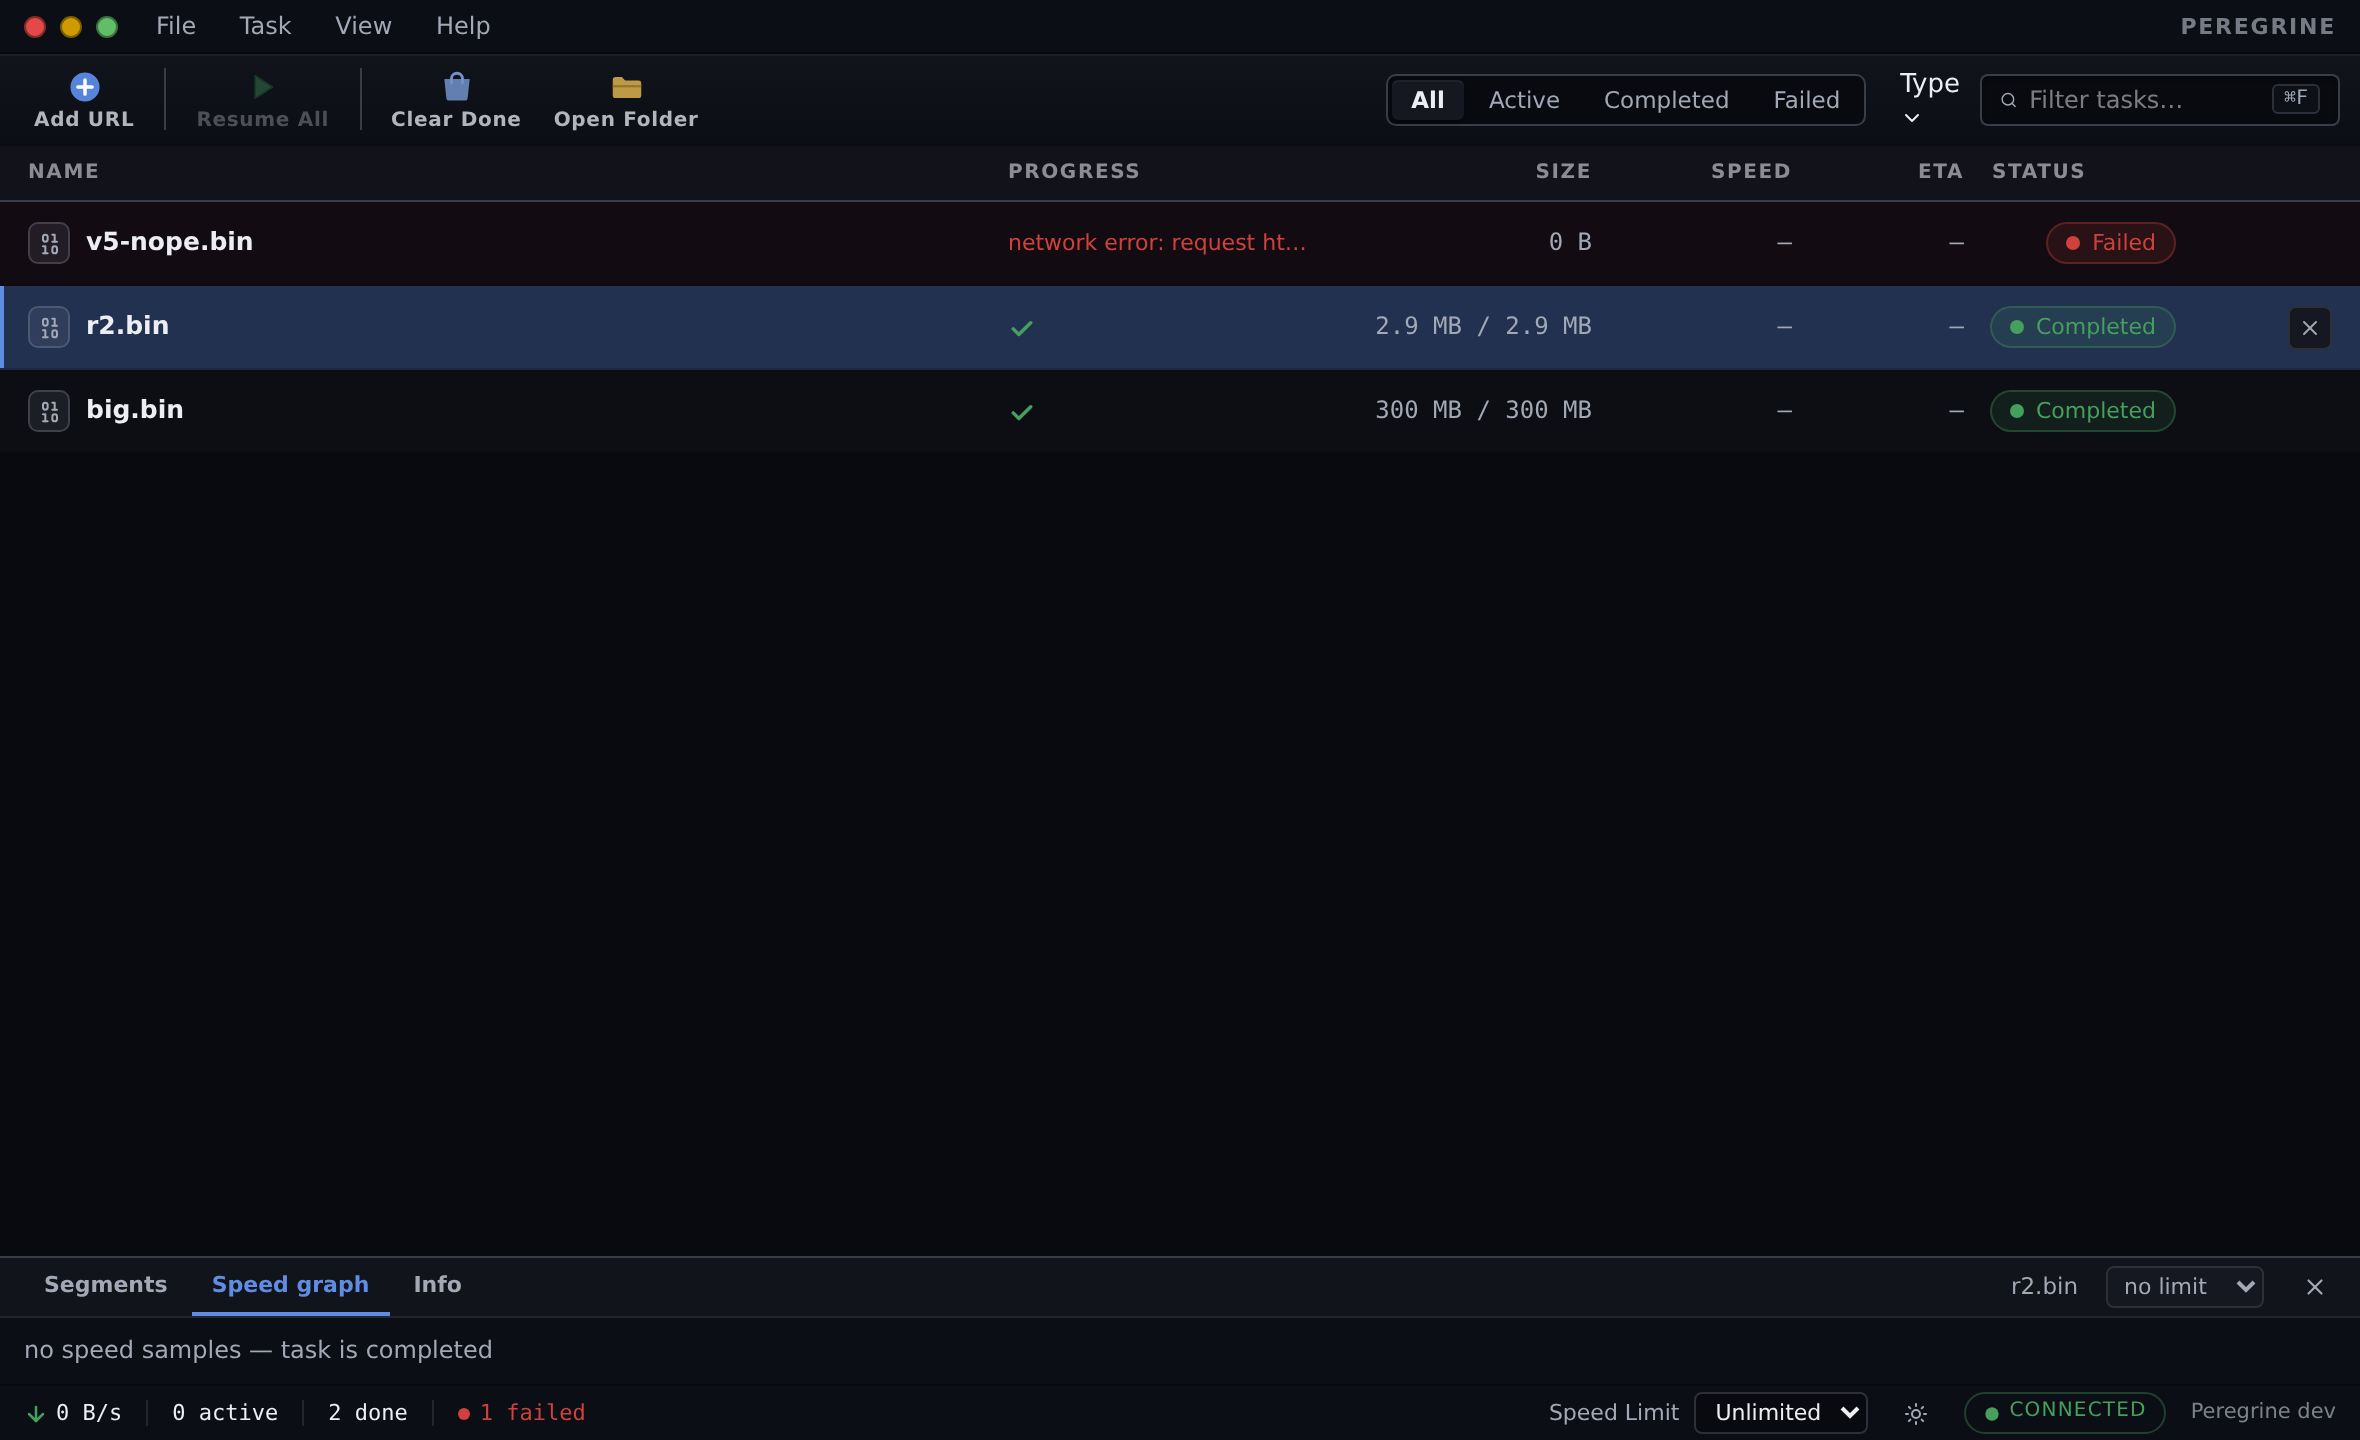
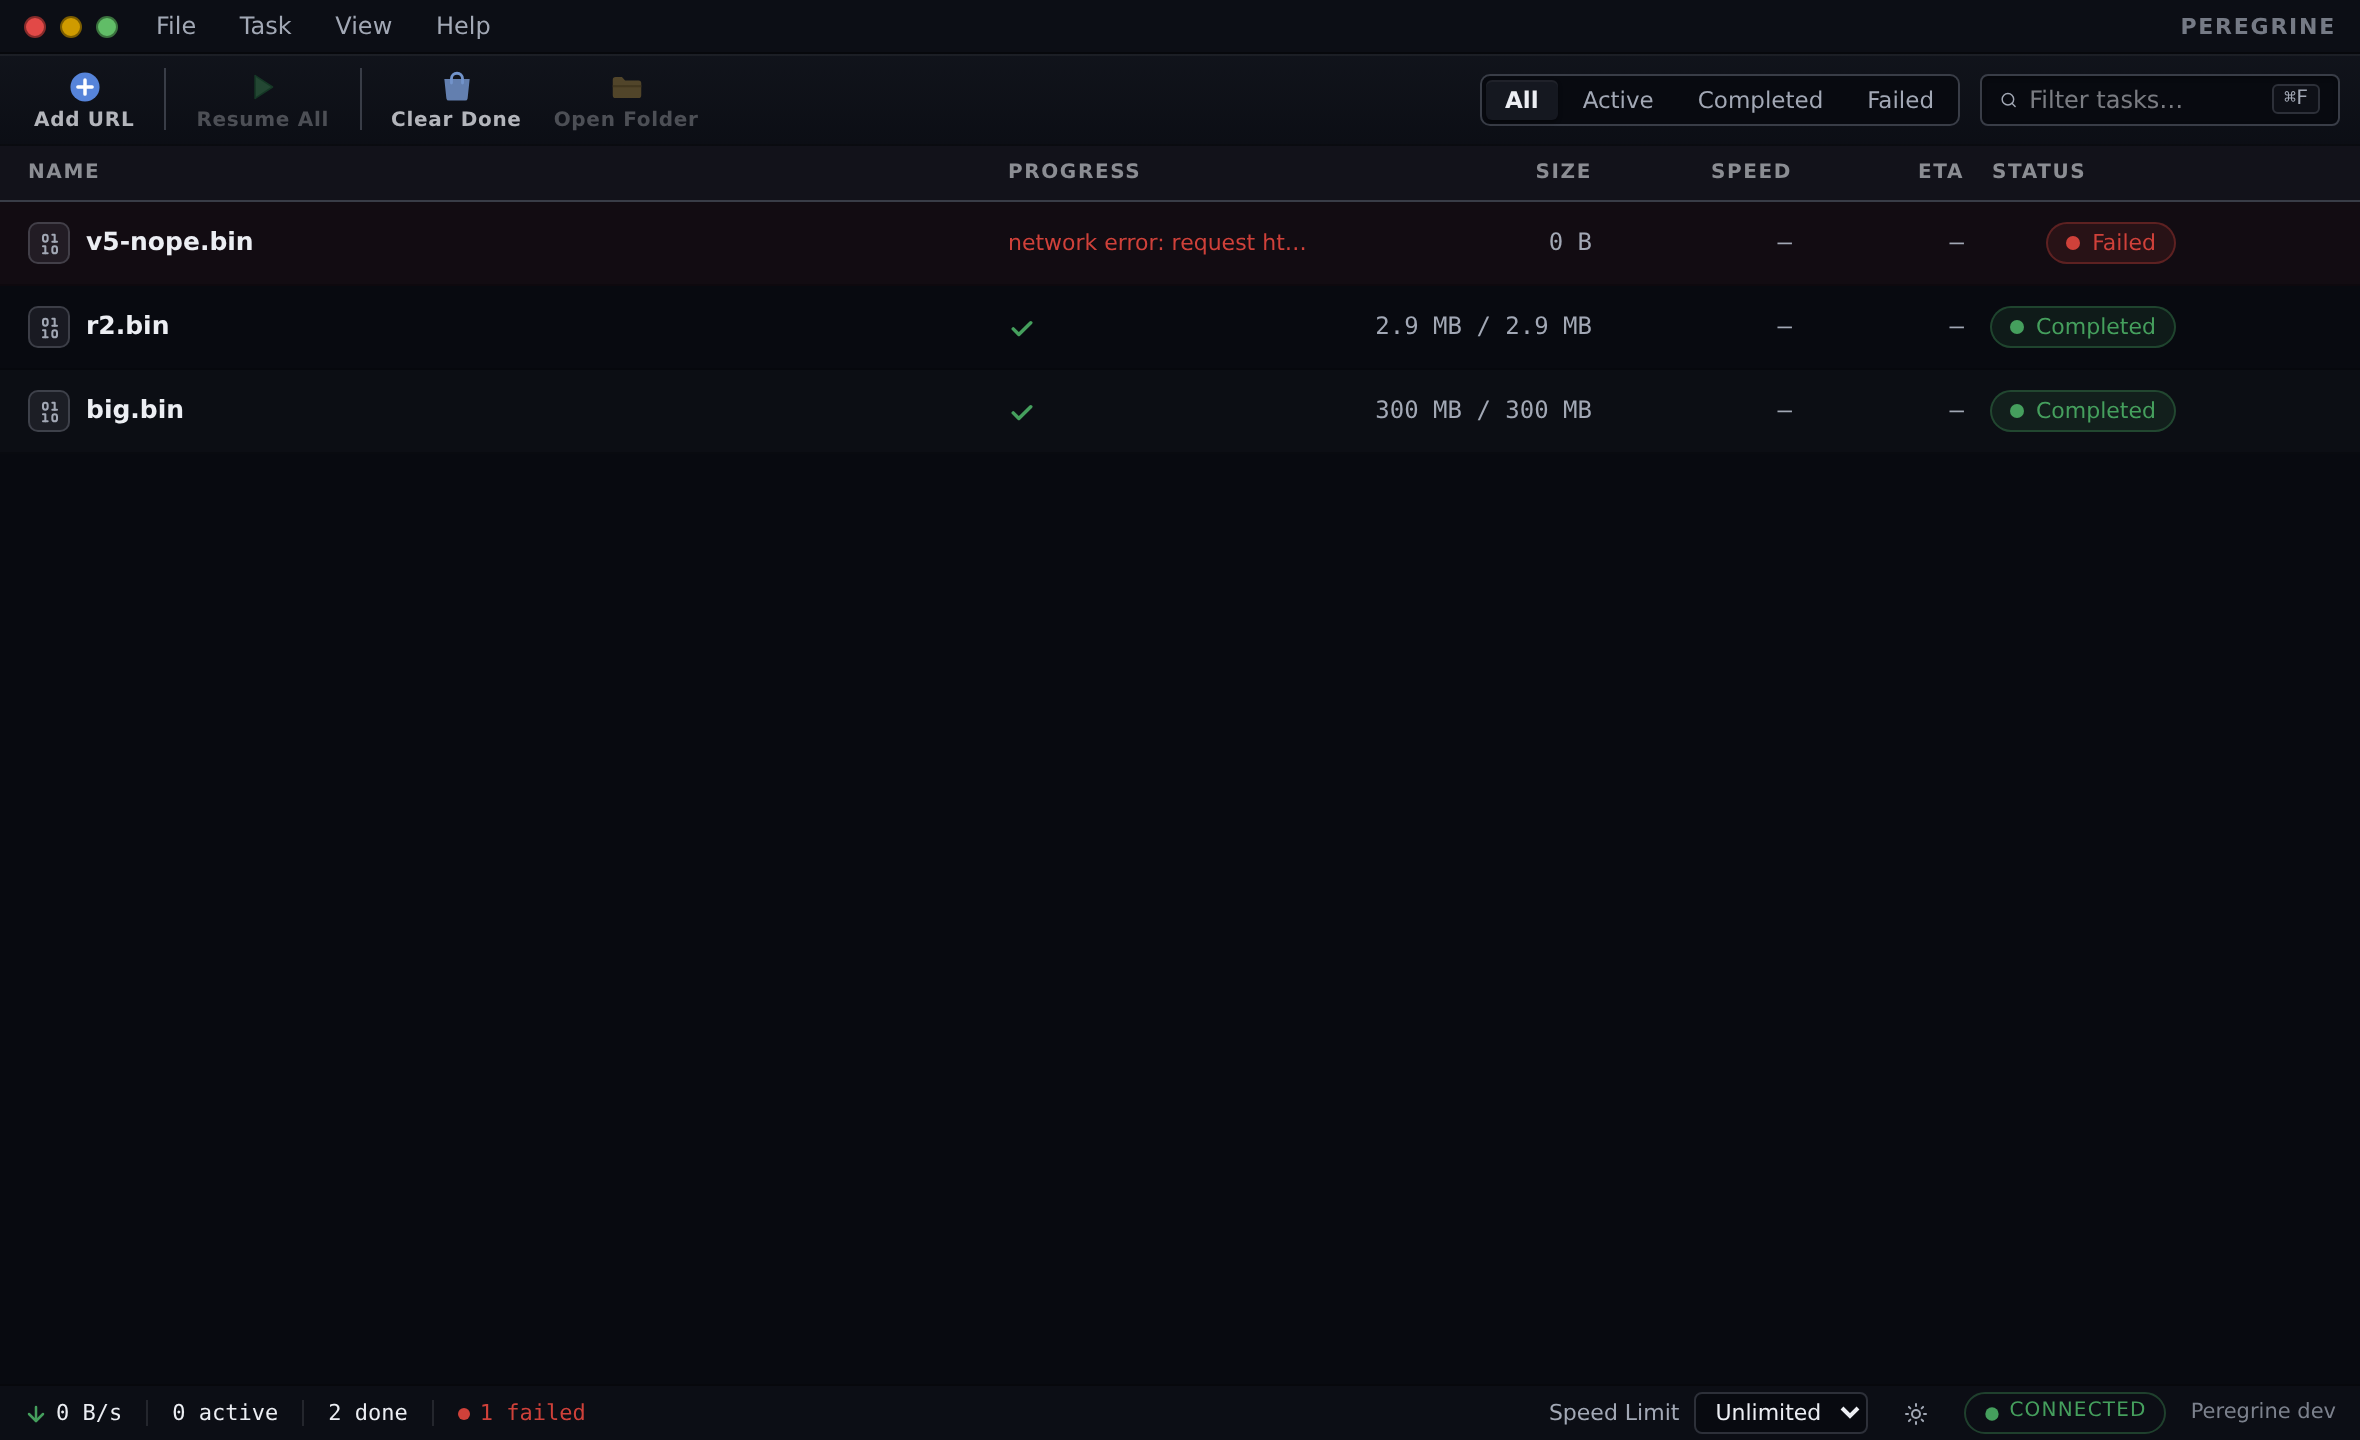
fix: remove the orphaned Type button from the toolbar (UX)
Three iterations on the Type dropdown placement (boxed beside the
chips -> ghost -> merged into the chips group) all read wrong: it
either fought the segmented control as a sibling box or floated as
an orphaned label. The real fix is subtraction — status and category
are different axes with different frequencies:

- toolbar keeps ONLY the high-frequency axis: status chips + search
- category filtering moves to View > 'All Types / Video / Audio /
  Documents / Archives / Programs / Other' (checkmark radio group),
  its first-class home in desktop-menu semantics
- Titlebar passes categoryFilter through; Menubar gains the section
- probed: View menu lists 7 type items, Archives filters to 0 rows
  (no archives in scene), toolbar has 0 leftover filter buttons

VLM verdict on the final toolbar: 9/10 (prev 8 with the boxed
sibling, 4 ghost, 4 merged).

diff --git a/apps/desktop/src/lib/Toolbar.svelte b/apps/desktop/src/lib/Toolbar.svelte
@@ -4,10 +4,8 @@
    * small caps labels (IDM-style), filter dropdown (absorbs the old
    * sidebar's status/category filters), live task search.
    */
-  import { DropdownMenu } from 'bits-ui';
-  import { Search, ChevronDown } from '@lucide/svelte';
-  import { CATEGORIES, type Category } from './categorize';
-  import type { StatusFilter } from './types';
+    import { Search } from '@lucide/svelte';
+    import type { StatusFilter } from './types';
 
   let {
     query = $bindable(''),
@@ -45,9 +43,6 @@
     searchEl?.focus();
   }
 
-  const catLabel = $derived(
-    categoryFilter ? (CATEGORIES.find((c) => c.id === categoryFilter)?.label ?? 'Type') : 'Type',
-  );
 </script>
 
 <div class="toolbar">
@@ -99,29 +94,6 @@
       </button>
     {/each}
   </div>
-
-  <div class="tdiv segdiv"></div>
-
-  <DropdownMenu.Root>
-    <DropdownMenu.Trigger class="filter-btn" title="Filter by file type">
-      {catLabel}
-      <ChevronDown size={12} />
-    </DropdownMenu.Trigger>
-    <DropdownMenu.Content class="fmenu" align="end" sideOffset={6}>
-      {#each CATEGORIES as c (c.id)}
-        <DropdownMenu.Item
-          class="fitem"
-          onclick={() => {
-            categoryFilter = categoryFilter === c.id ? null : c.id;
-            statusFilter = 'all';
-          }}
-        >
-          {c.label}
-          {#if categoryFilter === c.id}<span class="on">✓</span>{/if}
-        </DropdownMenu.Item>
-      {/each}
-    </DropdownMenu.Content>
-  </DropdownMenu.Root>
 
   <div class="search" role="search">
     <Search size={12} aria-hidden="true" />
@@ -199,10 +171,6 @@
    * mass sit ~2px high to the eye — nudge the pair down. */
   .tool { padding-top: 2px; }
 
-  .segdiv {
-    align-self: center;
-    margin-left: 6px;
-  }
   .seg {
     align-self: center;
     margin-left: 8px;
@@ -233,22 +201,6 @@
     box-shadow: 0 1px 2px var(--shade-1), inset 0 1px 0 var(--inset-hl);
     font-weight: 600;
   }
-  .filter-btn {
-    align-self: center;
-    margin-left: 8px;
-    display: inline-flex;
-    align-items: center;
-    gap: 6px;
-    height: 26px;
-    padding: 0 10px;
-    border: 1px solid var(--line-strong);
-    border-radius: 4px;
-    background: var(--bg);
-    color: var(--text);
-    font: 500 12px var(--font-sans);
-    cursor: pointer;
-  }
-  .filter-btn:hover { border-color: var(--accent); }
 
   .search {
     align-self: center;
@@ -281,34 +233,4 @@
     background: var(--panel);
   }
 
-  .fmenu {
-    min-width: 160px;
-    background: var(--elevated);
-    border: 1px solid var(--line-strong);
-    border-radius: 6px;
-    padding: 4px;
-    box-shadow: 0 12px 32px var(--shade-2), 0 2px 8px var(--shade-1);
-    z-index: 60;
-  }
-  .fitem {
-    display: flex;
-    align-items: center;
-    justify-content: space-between;
-    padding: 5px 10px;
-    border-radius: 4px;
-    font: 400 12px var(--font-sans);
-    color: var(--text);
-    cursor: pointer;
-    outline: none;
-  }
-  .fitem[data-highlighted] {
-    background: var(--accent);
-    color: var(--on-accent);
-  }
-  .fitem .on { font-weight: 700; }
-  .fsep {
-    height: 1px;
-    background: var(--line-strong);
-    margin: 4px 6px;
-  }
 </style>

diff --git a/apps/desktop/src/lib/Menubar.svelte b/apps/desktop/src/lib/Menubar.svelte
@@ -5,6 +5,7 @@
    * have a classic desktop path alongside the toolbar + shortcuts.
    */
   import { Menubar as MB } from 'bits-ui';
+import { CATEGORIES, type Category } from './categorize';
 
   let {
     onAdd,
@@ -15,6 +16,8 @@
     themeLabel,
     onPalette,
     onShortcuts,
+    categoryFilter = null,
+    onCategoryFilter = () => {},
   }: {
     onAdd: () => void;
     onPauseAll: () => void;
@@ -24,6 +27,8 @@
     themeLabel: string;
     onPalette: () => void;
     onShortcuts: () => void;
+    categoryFilter?: Category | null;
+    onCategoryFilter?: (c: Category | null) => void;
   } = $props();
 </script>
 
@@ -64,6 +69,25 @@
     <MB.Menu>
       <MB.Trigger class="mtrigger">View</MB.Trigger>
       <MB.Content class="mcontent" align="start" sideOffset={4}>
+        <MB.Item
+          class="mitem"
+          onclick={() => onCategoryFilter(null)}
+          data-on={categoryFilter === null}
+        >
+          All Types
+          {#if categoryFilter === null}<span class="mk">✓</span>{/if}
+        </MB.Item>
+        {#each CATEGORIES as c (c.id)}
+          <MB.Item
+            class="mitem"
+            onclick={() => onCategoryFilter(categoryFilter === c.id ? null : c.id)}
+            data-on={categoryFilter === c.id}
+          >
+            {c.label}
+            {#if categoryFilter === c.id}<span class="mk">✓</span>{/if}
+          </MB.Item>
+        {/each}
+        <MB.Separator class="msep" />
         <MB.Item class="mitem" onclick={onToggleTheme}>
           {themeLabel}
           <span class="mk">⌘T</span>

diff --git a/apps/desktop/src/lib/Titlebar.svelte b/apps/desktop/src/lib/Titlebar.svelte
@@ -8,6 +8,7 @@
 
   let {
     title,
+    categoryFilter = null,
     onAdd,
     onPauseAll,
     onResumeAll,
@@ -16,8 +17,10 @@
     themeLabel,
     onPalette,
     onShortcuts,
+    onCategoryFilter,
   }: {
     title: string;
+    categoryFilter?: import('./categorize').Category | null;
     onAdd: () => void;
     onPauseAll: () => void;
     onResumeAll: () => void;
@@ -26,6 +29,7 @@
     themeLabel: string;
     onPalette: () => void;
     onShortcuts: () => void;
+    onCategoryFilter: (c: import('./categorize').Category | null) => void;
   } = $props();
 </script>
 
@@ -42,6 +46,8 @@
     {themeLabel}
     {onPalette}
     {onShortcuts}
+    {categoryFilter}
+    onCategoryFilter={onCategoryFilter}
   />
   <span class="appname" data-tauri-drag-region>{title}</span>
 </div>

diff --git a/apps/desktop/src/App.svelte b/apps/desktop/src/App.svelte
@@ -580,6 +580,11 @@
     onToggleTheme={toggleTheme}
     themeLabel={theme === 'dark' ? 'Light Theme' : 'Dark Theme'}
     onPalette={() => (paletteOpen = true)}
+    categoryFilter={categoryFilter}
+    onCategoryFilter={(c) => {
+      categoryFilter = c;
+      if (c) statusFilter = 'all';
+    }}
     onShortcuts={() => (helpOpen = true)}
   />
 
@@ -587,7 +592,6 @@
     bind:this={toolbarRef}
     bind:query
     bind:statusFilter
-    bind:categoryFilter
     {counts}
     hasSelection={selectedId !== null}
     onAdd={() => ((addUrl = ''), (showAdd = true))}
